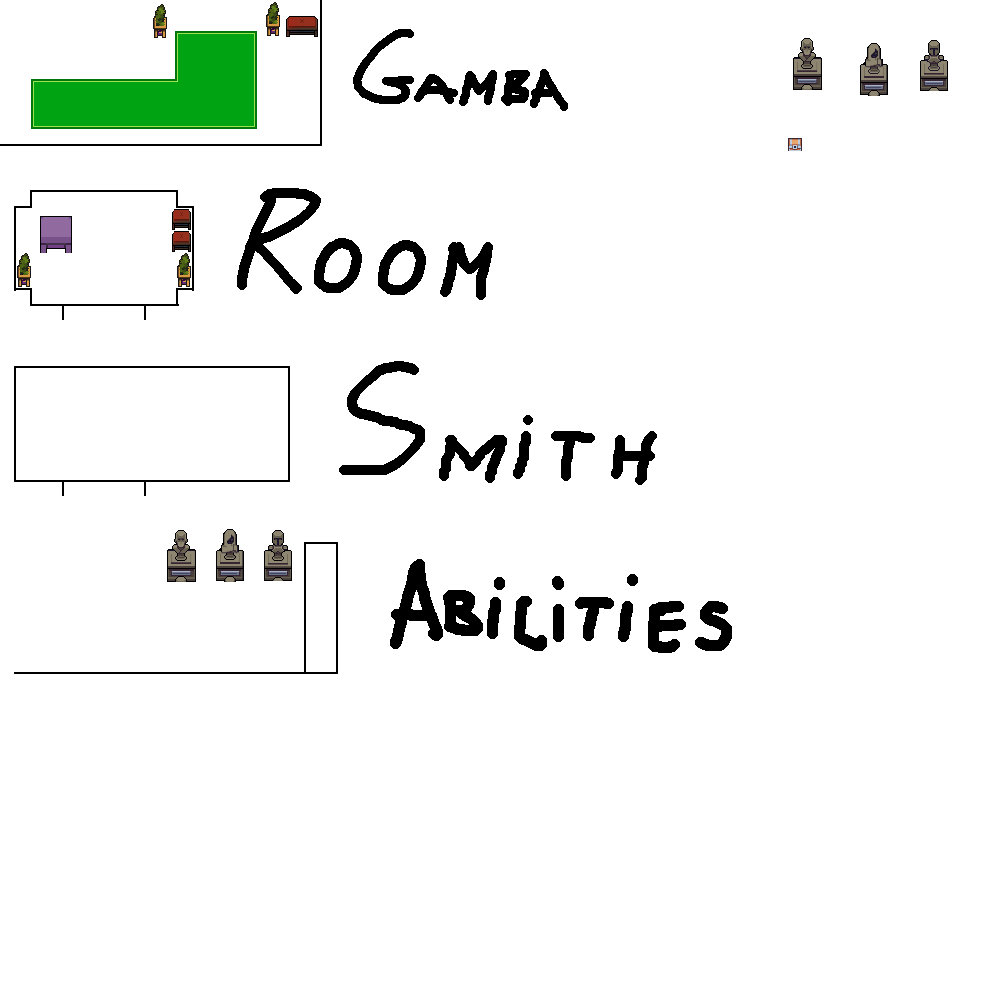
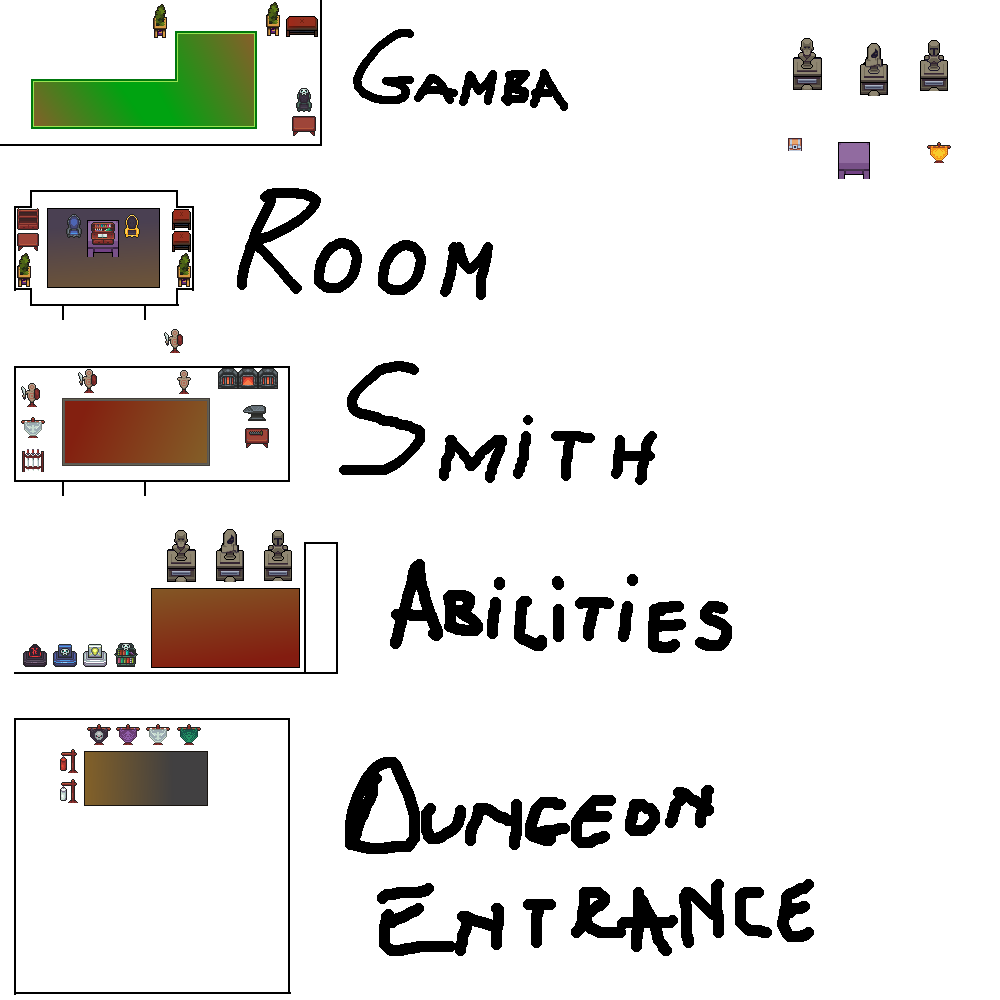
Dungeon Entrance uncomplete, need to add future interactions with decorators and hitboxes for the decorators.

diff --git a/RougeLikeGame/Lobby/lobby.py b/RougeLikeGame/Lobby/lobby.py
@@ -25,6 +25,13 @@ class Lobby:
         self.decoratorAbilitiesRoom2 = self.decoratorImage.subsurface((0, 527, 18 * 16, 1 * 16))
         self.decoratorAbilitiesRoom2 = pygame.transform.scale(self.decoratorAbilitiesRoom2, (18 * TILESIZE, 1 * TILESIZE))
 
+        # Smith Room
+        self.decoratorSmithRoom = self.decoratorImage.subsurface((16, 368, 17 * 16, 7 * 16))
+        self.decoratorSmithRoom = pygame.transform.scale(self.decoratorSmithRoom, (17 * TILESIZE, 7 * TILESIZE))
+
+        # Dungeon Entrance Room
+        self.decoratorDungeonEntrance = self.decoratorImage.subsurface((16, 720, 17 * 16, 17 * 16))
+        self.decoratorDungeonEntrance = pygame.transform.scale(self.decoratorDungeonEntrance, (17 * TILESIZE, 17 * TILESIZE))
 
         self.init_Lobby()
 
@@ -68,6 +75,15 @@ class Lobby:
         25 * TILESIZE - self.game.render_camera[0], 21 * TILESIZE - self.game.render_camera[1]))
         self.game.virtual_screen.blit(self.decoratorAbilitiesRoom2, (
         24 * TILESIZE - self.game.render_camera[0], 20 * TILESIZE - self.game.render_camera[1]))
+        # ----------------------------------------------------------------------------------------
+        # Smith Room
+        self.game.virtual_screen.blit(self.decoratorSmithRoom, (
+        26 * TILESIZE - self.game.render_camera[0], 3 * TILESIZE - self.game.render_camera[1]))
+        # ----------------------------------------------------------------------------------------
+        # Dungeon Entrance Room
+        self.game.virtual_screen.blit(self.decoratorDungeonEntrance, (
+        47 * TILESIZE - self.game.render_camera[0], 7 * TILESIZE - self.game.render_camera[1]))
+
 
 
     def renderLobby(self):
